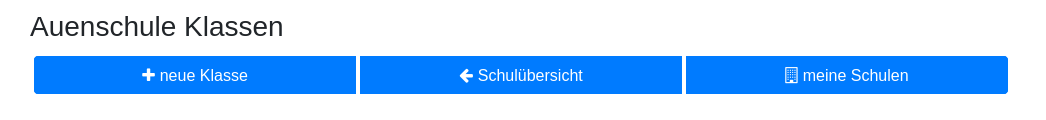
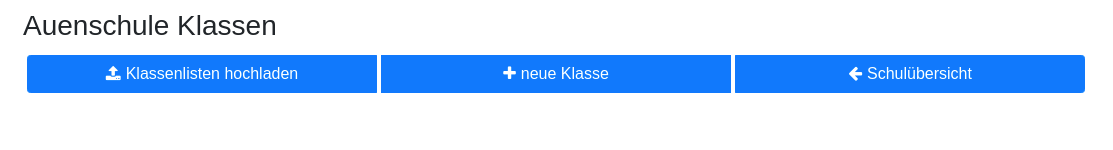
documentation upload klassenliste started

Changed region(s): [[0.0, 0.35, 0.979, 0.8], [0.0, 0.1, 0.2753, 0.3]]

diff --git a/frontend/minikaenguru-ws/apps/mkv-app/src/app/klassen/upload-klassenlisten/upload-klassenlisten.component.html b/frontend/minikaenguru-ws/apps/mkv-app/src/app/klassen/upload-klassenlisten/upload-klassenlisten.component.html
@@ -37,13 +37,17 @@
 					</div>
 					<div class="col-sm-12 col-md-8 mt-2" [innerHTML]="textNachname"></div>
 				</div>
-				<small *ngIf="subUrl.length > 0">{{uploadModel.subUrl}}</small>
+				<small *ngIf="devMode && subUrl.length > 0">{{uploadModel.subUrl}}</small>
 
 				<div class="row">
-					<div class="col-12" *ngIf="subUrl.length > 0">
+					<div *ngIf="subUrl.length > 0" class="w-100 ml-1">
 						<mk-upload [uploadModel]="uploadModel" (dateiAusgewaehlt)="onDateiAusgewaehlt()"
 							(responsePayload)="onResponse($event)"></mk-upload>
 					</div>
+					<button type="button" class="btn btn-outline-primary w-75 ml-4" title="Infos zum Inhalt der Datei" (click)="showInfoUploadFormat()">
+						<i class="fa fa-info" aria-hidden="true"></i> Wie muss die Excel-Datei aussehen?
+					</button>
+
 				</div>
 
 				<div *ngIf="klassenFacade.klassenimportReport$ | async">
@@ -84,3 +88,22 @@
 	Lade Schule... <i class="fa fa-spinner fa-2x fa-spin" aria-hidden="true"></i>
 </ng-template>
 
+<ng-template #dialogUploadFormatInfo let-modal>
+    <div class="modal-header">
+        <h4 class="modal-title" id="modal-basic-title">Wie muss die Excel-Datei aussehen?</h4>
+    </div>
+    <div class="modal-body">
+        <p>Die Excel-Datei darf nur aus <strong>einem</strong> Tabellenblatt bestehen, denn es wird nur das erste Tabellenblatt berücksichtigt.</p>
+		<p>Das Tabellenblatt muss 4 Spalten haben.</p>
+		<p>Die Spaltenüberschriften müssen wie folgt heißen (Reihenfolge ist beliebig): <strong>"Vorname"</strong>, <strong>"Nachname"</strong>, 
+			<strong>"Klasse"</strong>, <strong>"Klassenstufe"</strong>.</p>
+		<p>In die Spalte <strong>"Klassenstufe"</strong> tragen Sie bitte eine 0 für Inklusion, eine 1 für Klassestufe 1 und eine 2 für Klassenstufe 2 ein.</p>
+		<p>In die Spalte <strong>"Klasse"</strong> tragen Sie bitte den Namen der Klasse ein, wie er auf den Urkunden erscheinen soll. Für verschiedene Klassennamen werden verschiedene Klassen generiert.</p>
+		<p>Alle Spalten müssen vollständig gefüllt sein. Wenn der Nachname nicht auf der Urkunde erscheinen soll, wählen Sie bitte "Nachname als Zusatz" aus.</p>
+		<p>Sie können auch mehrere Excel-Dateien nacheinander hochladen.</p>
+		<p>Weitere Informationen mit Screenshots finden Sie auf der Minikänguru-Seite.</p>
+	</div>
+    <div class="modal-footer">
+		<button type="button" class="btn btn-outline-dark" (click)="modal.close('OK')">OK</button>
+    </div>
+</ng-template>

diff --git a/frontend/minikaenguru-ws/apps/mkv-app/src/app/klassen/upload-klassenlisten/upload-klassenlisten.component.ts b/frontend/minikaenguru-ws/apps/mkv-app/src/app/klassen/upload-klassenlisten/upload-klassenlisten.component.ts
@@ -1,4 +1,4 @@
-import { Component, OnDestroy, OnInit } from '@angular/core';
+import { Component, OnDestroy, OnInit, TemplateRef, ViewChild } from '@angular/core';
 import { Router } from '@angular/router';
 import { environment } from 'apps/mkv-app/src/environments/environment';
 import { Subscription, combineLatest } from 'rxjs';
@@ -9,6 +9,8 @@ import { ResponsePayload } from '@minikaenguru-ws/common-messages';
 import { UploadComponentModel } from '@minikaenguru-ws/common-components';
 import { WettbewerbFacade } from '../../wettbewerb/wettbewerb.facade';
 import { LogService } from '@minikaenguru-ws/common-logging';
+import { modalOptions } from '@minikaenguru-ws/common-components';
+import { NgbModal } from '@ng-bootstrap/ng-bootstrap';
 
 @Component({
   selector: 'mkv-upload-klassenlisten',
@@ -17,7 +19,10 @@ import { LogService } from '@minikaenguru-ws/common-logging';
 })
 export class UploadKlassenlistenComponent implements OnInit, OnDestroy {
 
-  devMode = environment.envName = 'DEV';
+  devMode = environment.envName === 'DEV';
+
+  @ViewChild('dialogUploadFormatInfo')
+	dialogUploadFormatInfo!: TemplateRef<HTMLElement>;
 
   schule!: Schule;
 
@@ -42,6 +47,7 @@ export class UploadKlassenlistenComponent implements OnInit, OnDestroy {
      private wettbewerbFacade: WettbewerbFacade,
      public klassenFacade: KlassenFacade,
      private lehrerFacade: LehrerFacade,
+     private modalService: NgbModal,
      private logger: LogService) { }
 
   ngOnInit(): void {
@@ -106,6 +112,13 @@ export class UploadKlassenlistenComponent implements OnInit, OnDestroy {
     this.nachnameVerbergen = event;
 		this.uploadModel = {...this.uploadModel, subUrl: this.getQueryParameters()};
     this.textNachname = this.nachnameVerbergen ? 'Die Nachnamen werden in das Feld Zusatz importiert und erscheinen <strong>nicht</strong> auf der Urkunde.' : 'Die Nachnamen werden in das Feld Nachname importiert und erscheinen auf der Urkunde.';
+	}
+
+  showInfoUploadFormat() {
+		this.modalService.open(this.dialogUploadFormatInfo, modalOptions).result.then((_result) => {
+			
+			// do nothing
+	  });
 	}
 
   gotoKlassen(): void {
